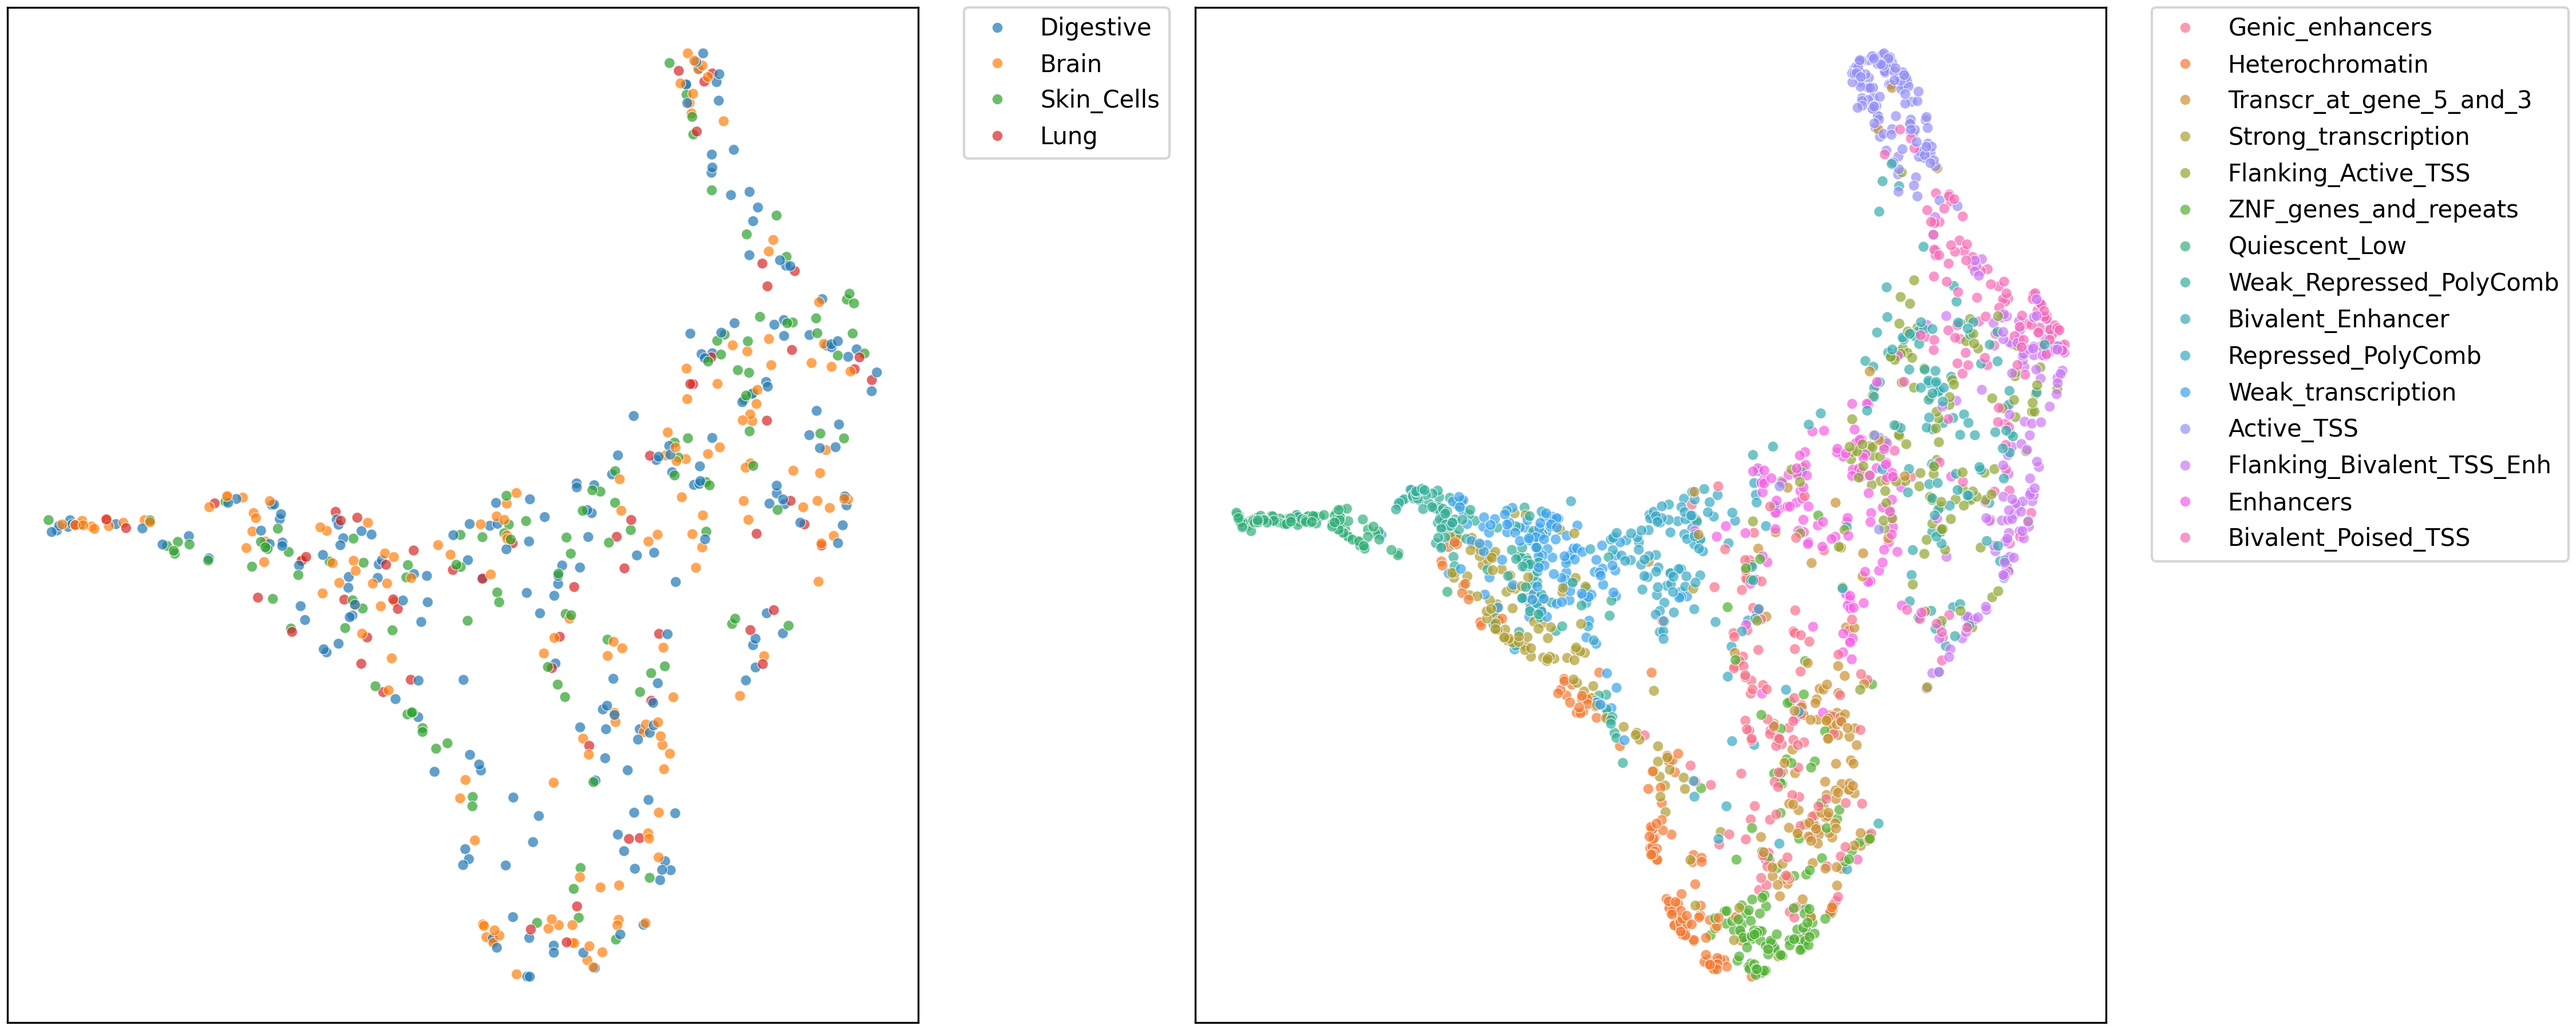
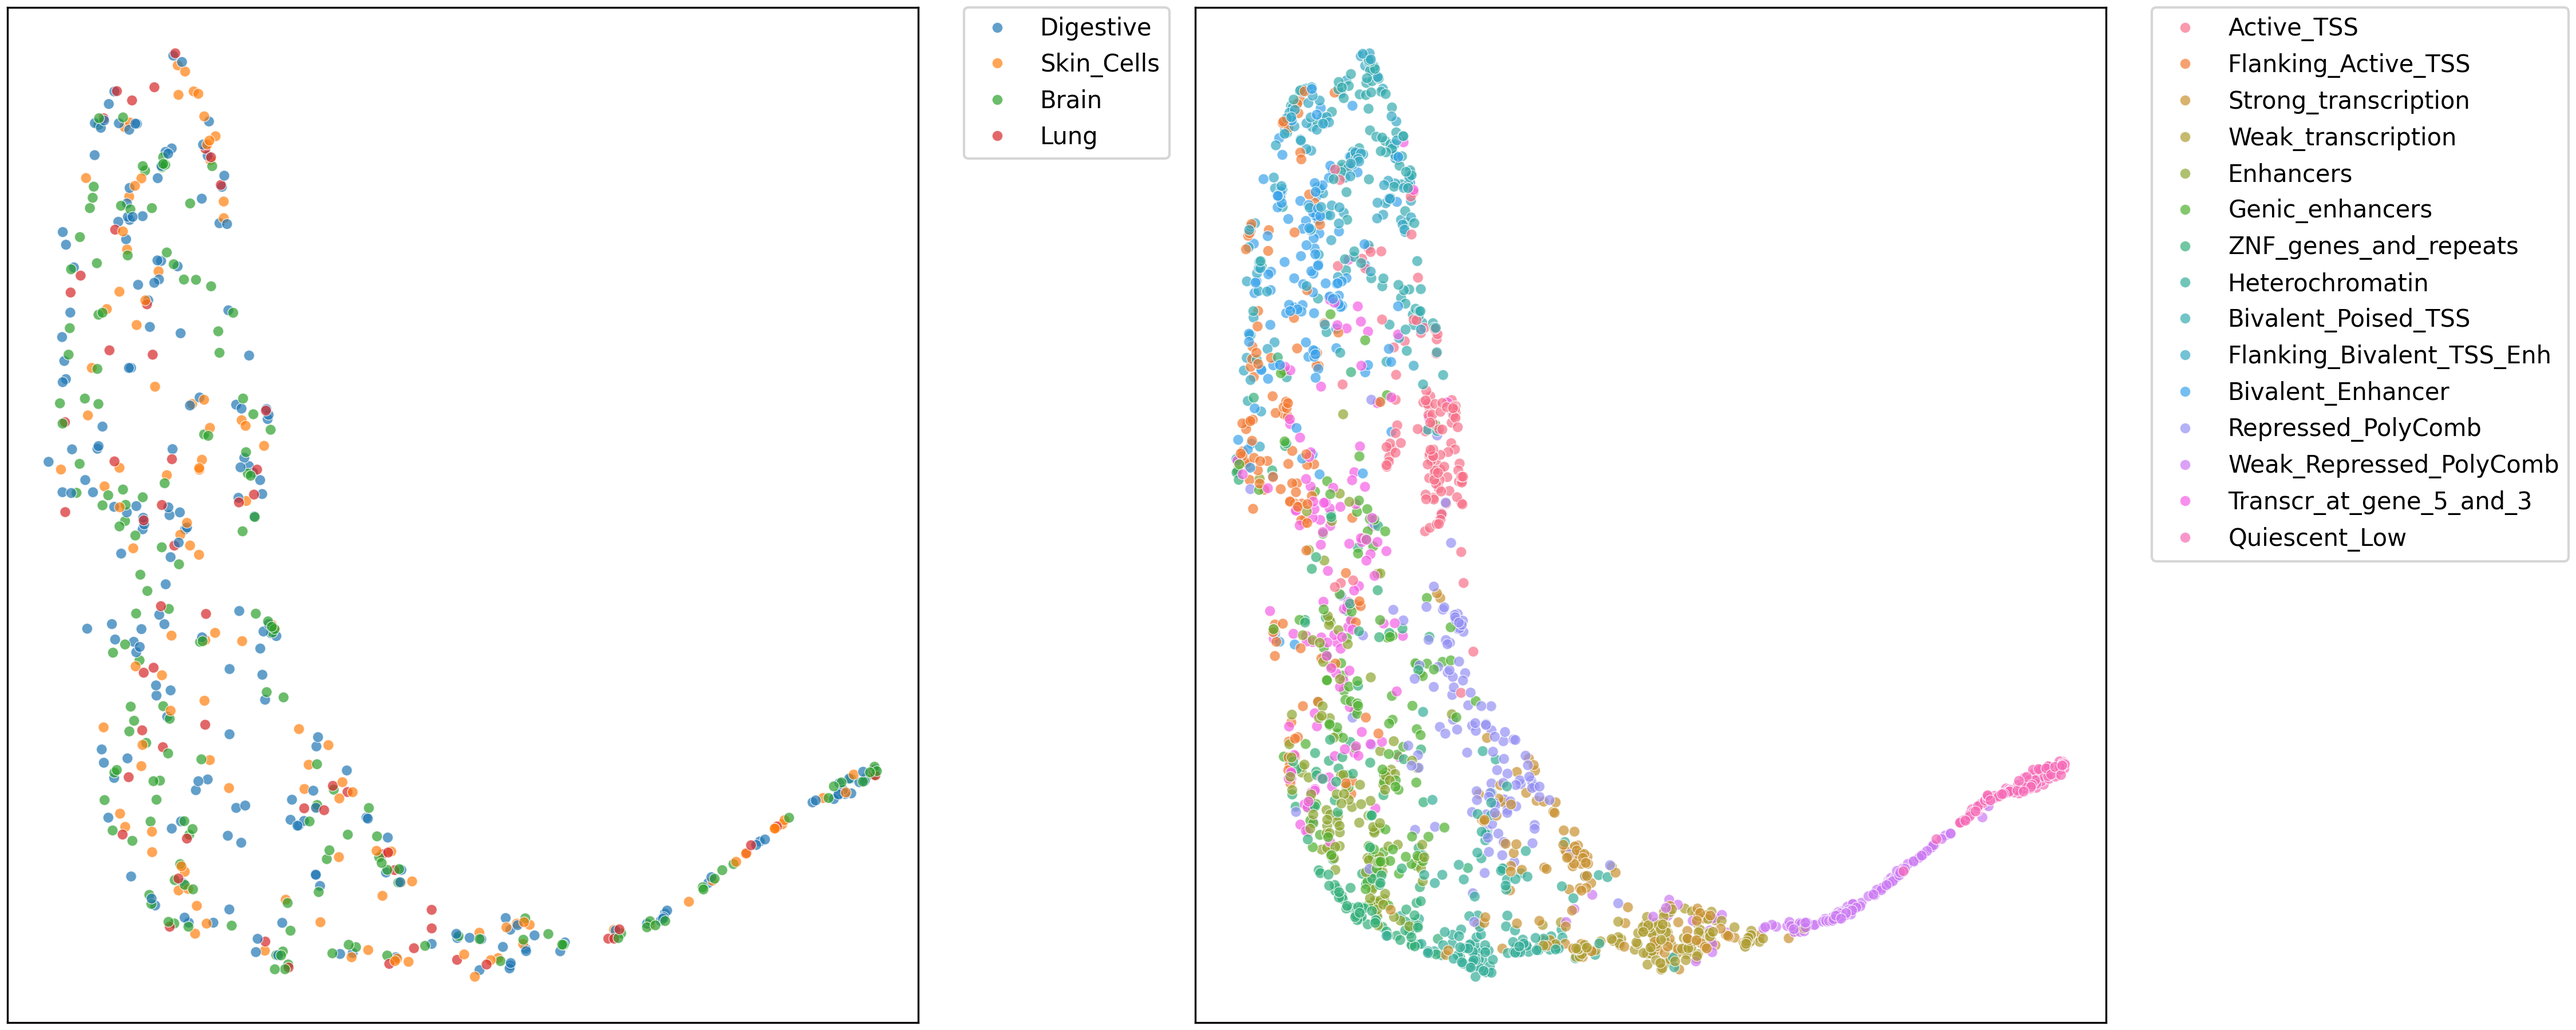
rme umap

diff --git a/src/analysis/rme_umap.py b/src/analysis/rme_umap.py
@@ -31,22 +31,15 @@ def embed(
     num_workers: int,
     limit: int,
 ) -> dict[str, NDArray]:
-    # dist.init_process_group()
-
-    try:
-        with torch.no_grad():
-            rme_paths = [fix_bed_ext(beds_dir / name) for name in rme.bed_names]
-            rme_datasets = [
-                BedDataset(path, limit=limit, associated_fasta_path=fasta)
-                for path in rme_paths
-            ]
-            engine = GenomicEmbedder(model.to(guess_device()), batch_size, num_workers)
-            out_paths = [out_dir / name for name in rme.bed_names]
-            engine.to_disk(rme_datasets, out_paths, respect_boundaries=True, log=True)
-            return mean_embed_dict.build(out_paths)  # take means
-    finally:
-        pass
-        # dist.destroy_process_group()
+    with torch.inference_mode():
+        rme_paths = [fix_bed_ext(beds_dir / name) for name in rme.bed_names]
+        rme_datasets = [
+            BedDataset(path, fasta, limit=limit, shuffle=True) for path in rme_paths
+        ]
+        engine = GenomicEmbedder(model.to(guess_device()), batch_size, num_workers)
+        out_paths = [out_dir / name for name in rme.bed_names]
+        engine.to_disk(rme_datasets, out_paths, respect_boundaries=True, log=True)
+        return mean_embed_dict.build(out_paths)  # take means
 
 
 def plot_umap(
@@ -132,7 +125,7 @@ if __name__ == "__main__":
         fasta = Path("data/hg/hg38.fa")
         model = HyenaDNA("16k")
 
-        embed(beds_dir, out_dir, fasta, model, 32, 0, 50)
+        embed(beds_dir, out_dir, fasta, model, 64, 0, 64)
         umap_combo(
             out_dir, "experiments/roadmapEpigenomics/hyena_dna_umap.png", n_neighbors=50
         )
